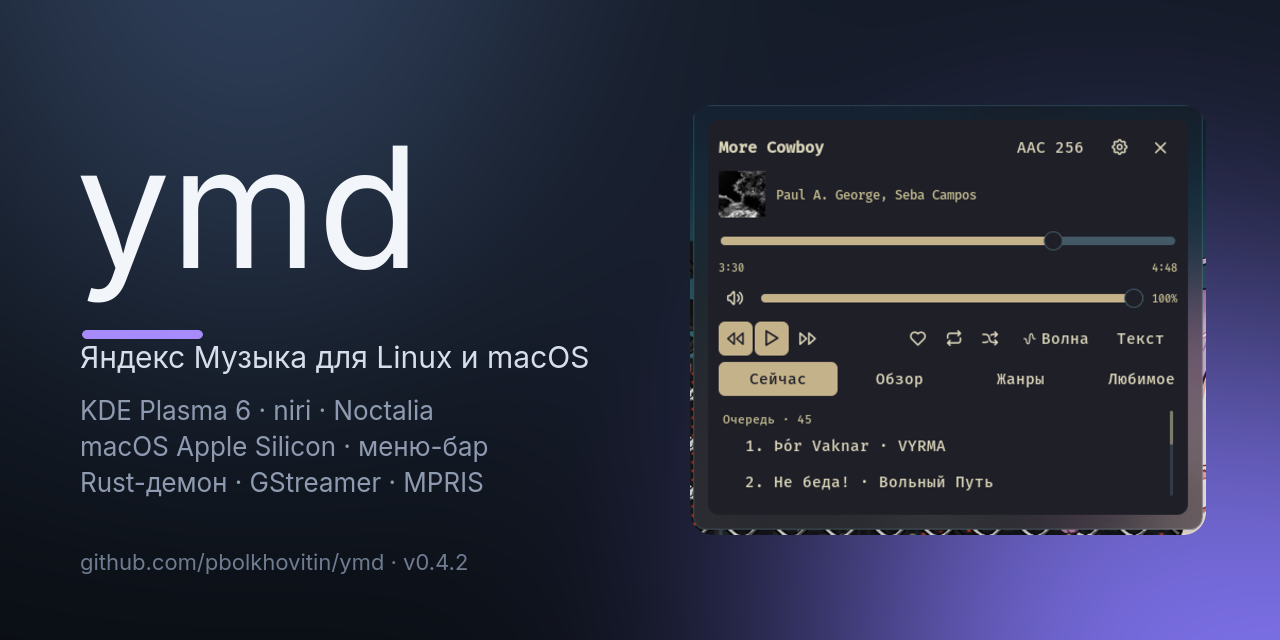
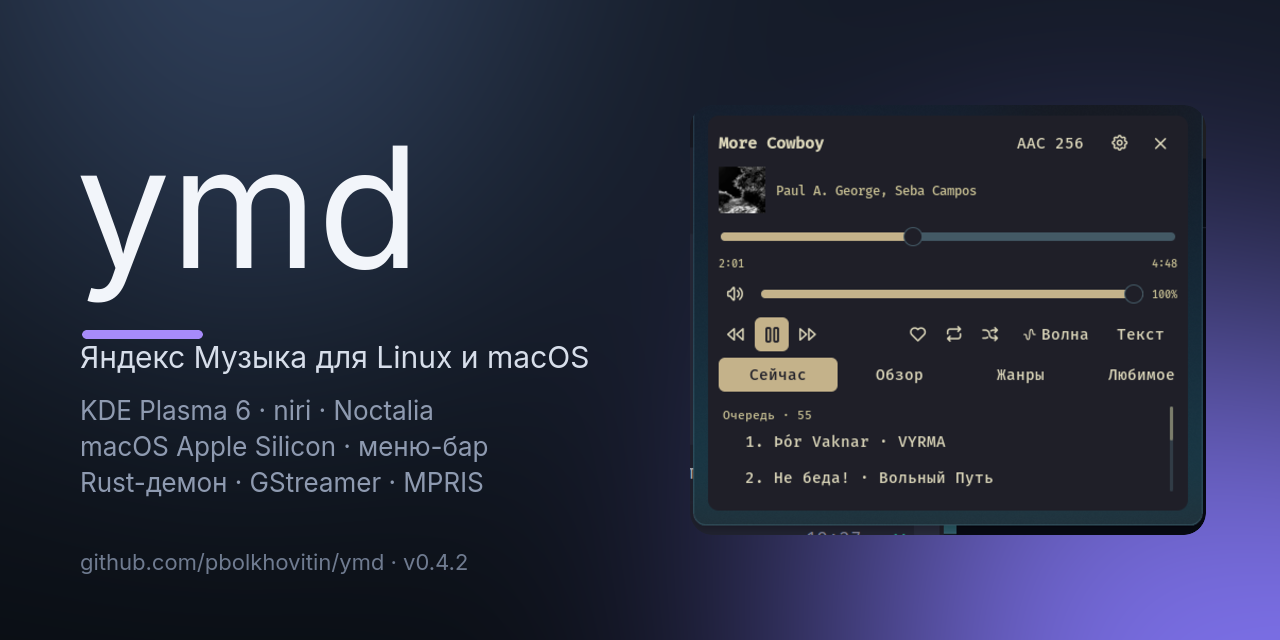
fix(noctalia): явный selected у кнопок панели

diff --git a/notes/noctalia-ui-findings.md b/notes/noctalia-ui-findings.md
@@ -172,3 +172,44 @@ noctalia msg plugin 'pbolkhovitin/yandex-music:panel' all refresh
   проверено, что раскладка бара вернулась к исходной.
 - scripts/social-preview.sh кроит панель по новому размеру
   (-crop 486x405+4+4), social preview пересобран: v0.4.2.
+- 23.11 кадр панели переснят после фикса подсветки: панель теперь на DP-3,
+  кроп 3593,42 → 4089,463 → 496×421; акцентных кнопок ровно две —
+  play/pause (primary) и выбранный пункт навигации. Social preview
+  пересобран заново.
+
+## Подсветка кнопки «как активной» (2026-11-23)
+
+На снимке `docs/images/noctalia-panel.png` кнопка «Предыдущий трек» была залита
+акцентом, как выбранная, хотя у неё `variant = "ghost"` и `selected` не
+передавался.
+
+Причина — поведение хоста, а не тема. В `src/scripting/ui/ui_tree_reconciler.cpp`
+дети подбираются по паре `(type, key)`, а кнопки транспорта не задавали `key`:
+у всех `key = ""`, поэтому при смене вида любой узел-кнопка мог быть
+переиспользован под другую кнопку. Проп `selected` применяется только при
+наличии в таблице:
+
+```cpp
+if (const bool* selected = boolProp(desired, "selected")) {
+  button->setSelected(*selected);
+}
+```
+
+Отсутствие ключа состояние не сбрасывает — на переиспользованном узле оставалась
+прошлая заливка `Primary` (`#c4b28a` в Kanagawa Paper). Hover тут ни при чём:
+у `ghost` hover — роль `Hover` (`#363646`), а не акцент; `focus` — `Secondary`.
+
+Исправление в `noctalia/panel.luau`:
+
+- `local function btn(props)` ставит `selected = false`, если ключа нет; все 16
+  вызовов `ui.button({` переведены на `btn({`;
+- `icon_button` передаёт `selected = selected == true` и `key = "ib:" .. action`,
+  чтобы узел не мигрировал между кнопками при перестройке дерева.
+
+Проверено вживую (Noctalia v5.6.0): после правки в панели ровно одна акцентная
+кнопка 32×32 — play/pause с `variant = "primary"`, плюс акцент у выбранного
+пункта навигации; новых `[ERR]` в `~/.cache/noctalia/noctalia.log` нет.
+
+Гипотеза на будущее: тот же эффект возможен у любой кнопки без явного
+`selected` (в том числе «Волна», «Текст», «Войти»), если до этого в её слоте
+жил выбранный элемент.

diff --git a/docs/design/noctalia.md b/docs/design/noctalia.md
@@ -253,6 +253,10 @@ end
   (`genre:rock`).
 - Активный вид помечается `selected` только во вкладках; повтор и перемешивание
   состояние показывают глифом (`repeat`/`repeat-off`/`repeat-once`), без заливки.
+- `selected` передаётся **явно** у каждой кнопки (`btn()` в `panel.luau` ставит
+  `false`, если ключа нет). Хост применяет prop только когда он есть, поэтому
+  отсутствие ключа оставляло на переиспользованном узле прошлую `Primary`-заливку
+  — так «Предыдущий трек» выглядел выбранным.
 - Перерисовка каждые 2 с — только для `now`: на списках `render()` вызывается
   лишь при смене `rev`, иначе сбрасывалась бы позиция скролла.
 - Версия в «Настройках» — не хардкод: плагин читает `plugin.toml` из

diff --git a/CHANGELOG.md b/CHANGELOG.md
@@ -13,6 +13,12 @@
 
 - Скриншоты в README и docs/design/noctalia.md пересняты на eDP-1 под 0.4.2: бар (подпись label = "title"), панель «Сейчас» и новый кадр настроек с версиями плагина и демона. Social preview пересобран, описание репозитория обновлено.
 
+### Исправлено
+
+- Плагин Noctalia: кнопки передают `selected` явно. Раньше кнопка без этого
+  ключа могла унаследовать акцентную заливку от переиспользованного узла и
+  выглядела выбранной — «Предыдущий трек» в панели светился как активный.
+
 ## [0.4.2] - 2026-11-23
 
 ### Изменено
